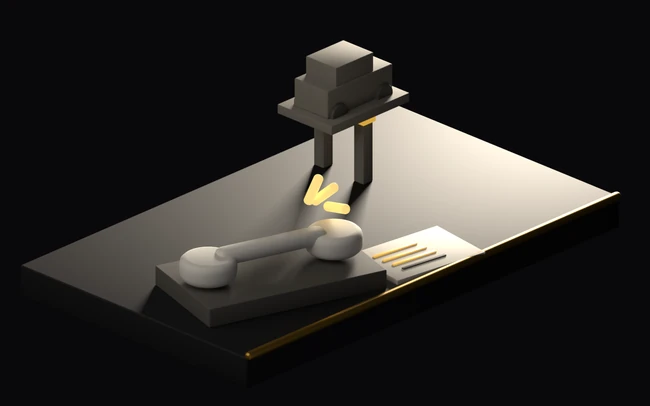
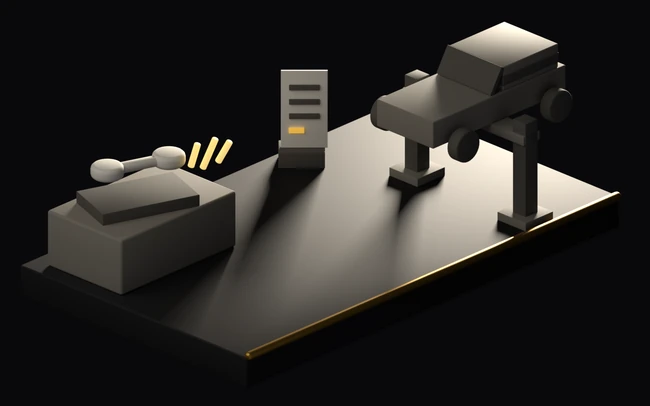
feat(secteurs): pharmacie refondue en langage d'objets, etiquettes enfin lisibles
LE TEST A L'AVEUGLE, ET C'EST LE SEUL PROTOCOLE QUI TRANCHE. Un lecteur recoit
l'image seule — pas de brief, pas d'etiquette, pas de nom de metier — et repond a
trois questions. Aucun instrument ne mesure « est-ce que ca se comprend ».

Les deux scenes livrees l'ont echoue. Sur la pharmacie : « je ne peux pas trancher
avec certitude sur un metier precis nomme », les objets « trop stylises et
generiques », et « aucune action ni processus n'est visible dans cette image ».

La scene refondue le passe : « Cette image represente le metier de pharmacien
(activite de pharmacie officinale). La croix doree est le symbole universel de
pharmacie, associee au mortier et pilon et a la plaquette de comprimes — la
combinaison de ces trois elements identifie sans ambiguite ce secteur. » Et sur
l'automatisation : « Oui […] les objets sont relies par un flux visuel continu […]
sans main ni personnage pour l'actionner. »

CE QUI A CHANGE LA LECTURE : une plaquette de comprimes, dont les alveoles font
10,1 x 6,2 px a la taille servie et se comptent — rien d'autre au monde n'y
ressemble ; une croix grecque a quatre bras egaux POSEE SANS FUT, l'ancienne croix
sur mat additionnant 0,319 de fut contre 0,069 au-dessus, soit un crucifix qui
tirait la lecture vers « cabinet medical » ; et une ordonnance en vol dont le roulis
a ete balaye jusqu'a +14°, ce qui la fait passer de 121 a 203 sur 255.

LES ETIQUETTES. Le controle livre verifiait qu'elles tenaient dans la largeur de
[…]

Changed region(s): [[0.0615, 0.0591, 0.8923, 0.8867]]

diff --git a/components/Sectors.tsx b/components/Sectors.tsx
@@ -31,22 +31,46 @@ const CALENDLY_URL = "https://calendly.com/saasnhia/30min";
  */
 const PALIERS_METIER = [370, 650, 880, 1100, 1480] as const;
 
+/**
+ * LES ANCRES SONT DANS LE CIEL, ET C'EST UNE CONTRAINTE MESUREE, PAS UN CHOIX.
+ *
+ * Les quatre etiquettes livrees jusqu'ici tombaient sur des objets clairs et
+ * mesuraient 1,00:1 de contraste sur jusqu'a 92 % de leur surface — du blanc sur du
+ * papier blanc. La cause est dans le decor : le dessus du socle et toutes les faces
+ * horizontales recoivent un voile speculaire tres clair (matiere papier a 0,701 vue
+ * de dessus contre 0,185 vue de face). AUCUNE bande d'etiquette ne peut donc se poser
+ * sur le plateau ; elles ne peuvent etre que dans le fond sombre. Les deux ancres de
+ * chaque scene y sont, a 16,92:1.
+ *
+ * CONSEQUENCE : l'etiquette se retrouve loin au-dessus de l'objet qu'elle nomme —
+ * jusqu'a 237 px pour la boite de medicament. Une etiquette qui ne designe plus rien
+ * ne vaut pas mieux qu'une etiquette illisible, d'ou le TRAIT DE RAPPEL : la scene
+ * emet aussi le point de l'objet, et un trait relie l'un a l'autre.
+ *
+ * LE TRAIT EST DOUBLE, et pour la meme raison que les jalons du ruban sont cercles de
+ * la couleur de page : il traverse le fond sombre PUIS le plateau clair, et aucune
+ * couleur unique ne contraste avec les deux. Un trait large a la couleur du fond
+ * porte donc un trait fin dore — sur le ciel c'est l'or qui se lit, sur le plateau
+ * c'est le halo sombre qui detache l'or.
+ */
 const SCENES_METIER: Record<string, {
   fichier: string;
-  etiquettes: { cle: string; x: number; y: number }[];
+  etiquettes: { cle: string; x: number; y: number; cx?: number; cy?: number }[];
 }> = {
   garage: {
     fichier: "metier-garage",
     etiquettes: [
-      { cle: "garageLabelAccueil", x: 0.4169, y: 0.6502 },   // telephone
-      { cle: "garageLabelFiche", x: 0.6421, y: 0.6154 },     // fiche
+      { cle: "garageLabelAccueil", x: 0.2123, y: 0.3190 },   // combine decroche
+      { cle: "garageLabelFiche", x: 0.4680, y: 0.1371 },     // fiche qui se remplit
     ],
   },
   pharma: {
     fichier: "metier-pharmacie",
     etiquettes: [
-      { cle: "pharmaLabelTri", x: 0.486, y: 0.4038 },        // case active
-      { cle: "pharmaLabelDecision", x: 0.6148, y: 0.6784 },  // ordonnance
+      // le tri : l'etiquette est dans le ciel, le trait descend sur la case ouverte
+      { cle: "pharmaLabelTri", x: 0.25, y: 0.35, cx: 0.3673, cy: 0.5426 },
+      // la decision : le trait descend sur la boite de medicament prete
+      { cle: "pharmaLabelDecision", x: 0.754, y: 0.28, cx: 0.8195, cy: 0.5614 },
     ],
   },
 };
@@ -422,6 +446,38 @@ export default function Sectors() {
                       decoding="async"
                       className="block w-full h-auto"
                     />
+                    {/* LES TRAITS DE RAPPEL, SOUS LES ETIQUETTES DANS L'ORDRE DU DOM
+                        donc peints avant elles. Le viewBox est celui du rendu et la
+                        boite est exactement a son rapport : aucune deformation, et
+                        aucune valeur en pixels — le trait suit l'image a toutes les
+                        largeurs comme les etiquettes. */}
+                    {scene.etiquettes.some((e) => e.cx !== undefined) && (
+                      <svg
+                        aria-hidden
+                        viewBox="0 0 1480 925"
+                        className="pointer-events-none absolute inset-0 h-full w-full
+                                   max-[560px]:hidden"
+                      >
+                        {scene.etiquettes.map((e) =>
+                          e.cx === undefined || e.cy === undefined ? null : (
+                            <g key={e.cle}>
+                              <line
+                                x1={e.x * 1480} y1={e.y * 925}
+                                x2={e.cx * 1480} y2={e.cy * 925}
+                                stroke="var(--bg)" strokeWidth={7} strokeLinecap="round"
+                              />
+                              <line
+                                x1={e.x * 1480} y1={e.y * 925}
+                                x2={e.cx * 1480} y2={e.cy * 925}
+                                stroke="var(--gold)" strokeWidth={2.5} strokeLinecap="round"
+                              />
+                              <circle cx={e.cx * 1480} cy={e.cy * 925} r={9}
+                                      fill="var(--gold)" stroke="var(--bg)" strokeWidth={4} />
+                            </g>
+                          ),
+                        )}
+                      </svg>
+                    )}
                     {scene.etiquettes.map((e) => (
                       <span
                         key={e.cle}
@@ -444,6 +500,29 @@ export default function Sectors() {
                           letterSpacing: 2,
                           lineHeight: 1.35,
                           maxWidth: "46%",
+                          // ── LA PLAQUE, ET ELLE EST MESUREE, PAS DECORATIVE ──────
+                          // Monter l'ancre dans le ciel a fait passer le minimum de
+                          // 1,00:1 a 17,02:1 a 768 px. A 1024 il retombait a 1,00:1,
+                          // et le pire pixel valait rgb(240,237,230) — exactement la
+                          // couleur du papier du rendu. La raison est structurelle :
+                          // le texte fait 11 px quelle que soit la largeur, donc son
+                          // emprise EN FRACTION D'IMAGE grandit quand l'image
+                          // retrecit, et elle finit par depasser la bande sombre
+                          // verifiee cote scene. Aucune position d'ancre ne peut donc
+                          // suffire a toutes les largeurs : il faut la plaque.
+                          //
+                          // L'OPACITE EST CALCULEE, pas choisie. Le fond le plus
+                          // clair rencontre est le papier a L = 0,832. Pour tenir
+                          // 4,5:1 avec un texte a la meme luminance il faut composer
+                          // le fond sous L = 0,146, soit environ 107 par canal, ce
+                          // qui exige alpha >= 0,58. A 0,82 le compose vaut 51 et le
+                          // contraste 10,8:1 — et l'ETENDUE dans la boite tombe a
+                          // 1,6:1, donc aucune arete de contraste ne subsiste.
+                          // Sur le ciel a rgb(9,9,11) la plaque est invisible : elle
+                          // ne se voit que la ou elle sert.
+                          background: "rgba(9, 9, 11, 0.82)",
+                          padding: "3px 7px",
+                          borderRadius: "var(--radius-sm, 4px)",
                         }}
                       >
                         {t(e.cle)}
